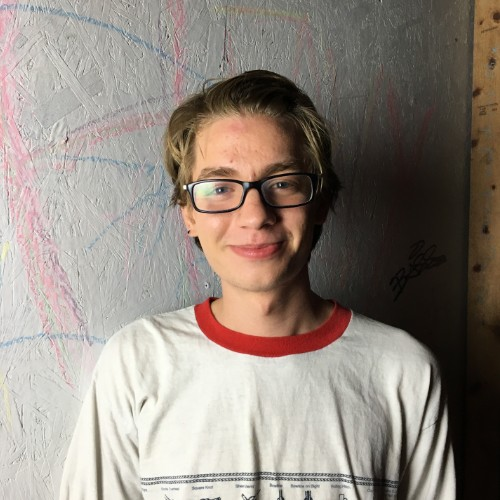
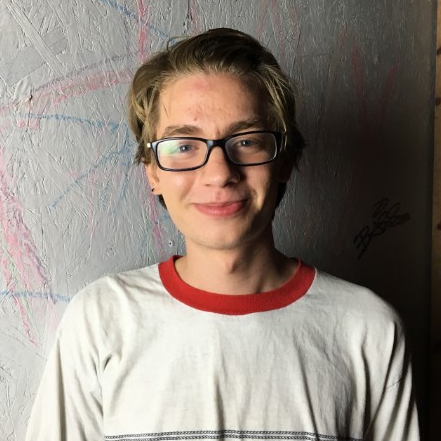
updated formatting in About
shortened my blurb

diff --git a/frontend/src/AboutPage.html b/frontend/src/AboutPage.html
@@ -85,14 +85,14 @@
                         <th>Ian Wu</th>
                     </tr>
                     <tr>
-                        <td><img src="Max.png" style="width: 90%"></td>
+                        <td><img src="Max.png" style="width: 100%"></td>
                         <td><img src="Emily.png" style="width: 100%"></td>
                         <td><img src="Val.png" style="width: 100%"></td>
                         <td><img src="Ian.png" style="width: 100%"></td>
                     </tr>
                     <tr>
                         <td style="text-align:left">Max Blurb TEST TEXTTEST TEXT TEST TEXTTESTTEXTTEST TEXT TEST TEXTTEST TEXT TEST TEXT TEST TEXT TEST TEXT TEST TEXT TEST TEXT TEST TEXT TEST TEXT TEST TEXT TEST TEXT TEST TEXT TEST TEXT TEST TEXT TEST TEXT TEST TEXT TEST TEXT TEST TEXT TEST TEXT TEST TEXT TEST TEXT TEST TEXT TEST TEXT TEST TEXT TEST TEXT</td>
-                        <td style="text-align:left">Emily Zhao is a junior Computer Science major @ CSU who is passionate about the intersection of data, design, and storytelling, and the ways technology can be leveraged for social impact and sustainable development. This year, she’s honored to serve as President of Society of Women Engineers, Secretary of Association for Computing Machinery, and Senator in Student Government. In her free time, she enjoys jamming on the violin, volunteering for local nonprofits and hospitals, and playing tennis!</td>
+                        <td style="text-align:left">Emily Zhao is a junior Computer Science major @ CSU who is passionate about the intersection of data, design, and storytelling, and the ways technology can be leveraged for social impact and sustainable development. This year, she’s honored to serve as President of Society of Women Engineers, Secretary of Association for Computing Machinery, & Senator in Student Government. In her free time, she enjoys jamming on the violin, volunteering for local nonprofits + hospitals, & playing tennis!</td>
                         <td style="text-align:left">Valerie Jarvis is a junior Computer Science major at Cleveland State with a minor in Mathematics. In her time at CSU, she co-founded the Academic Challenge Team and served in the roles of president and vice president. She has worked within the college for over a year in multiple roles, but her current role is as a student administrator to the assistant dean of the college. Her greatest loves in life include making websites look nice, well-organized Excel sheets, and her cat named Bean.</td>
                         <td style="text-align:left">Ian Wu is a junior Computer Science major @ Cleveland State with a minor in Mathematics. He is interested in artificial intelligence and its applications towards data science, particularly in the realm of financial markets. In his free time Ian enjoys fencing, cooking, and outdoor activities including kayaking, rock climbing, and camping. </td>
                     </tr>
